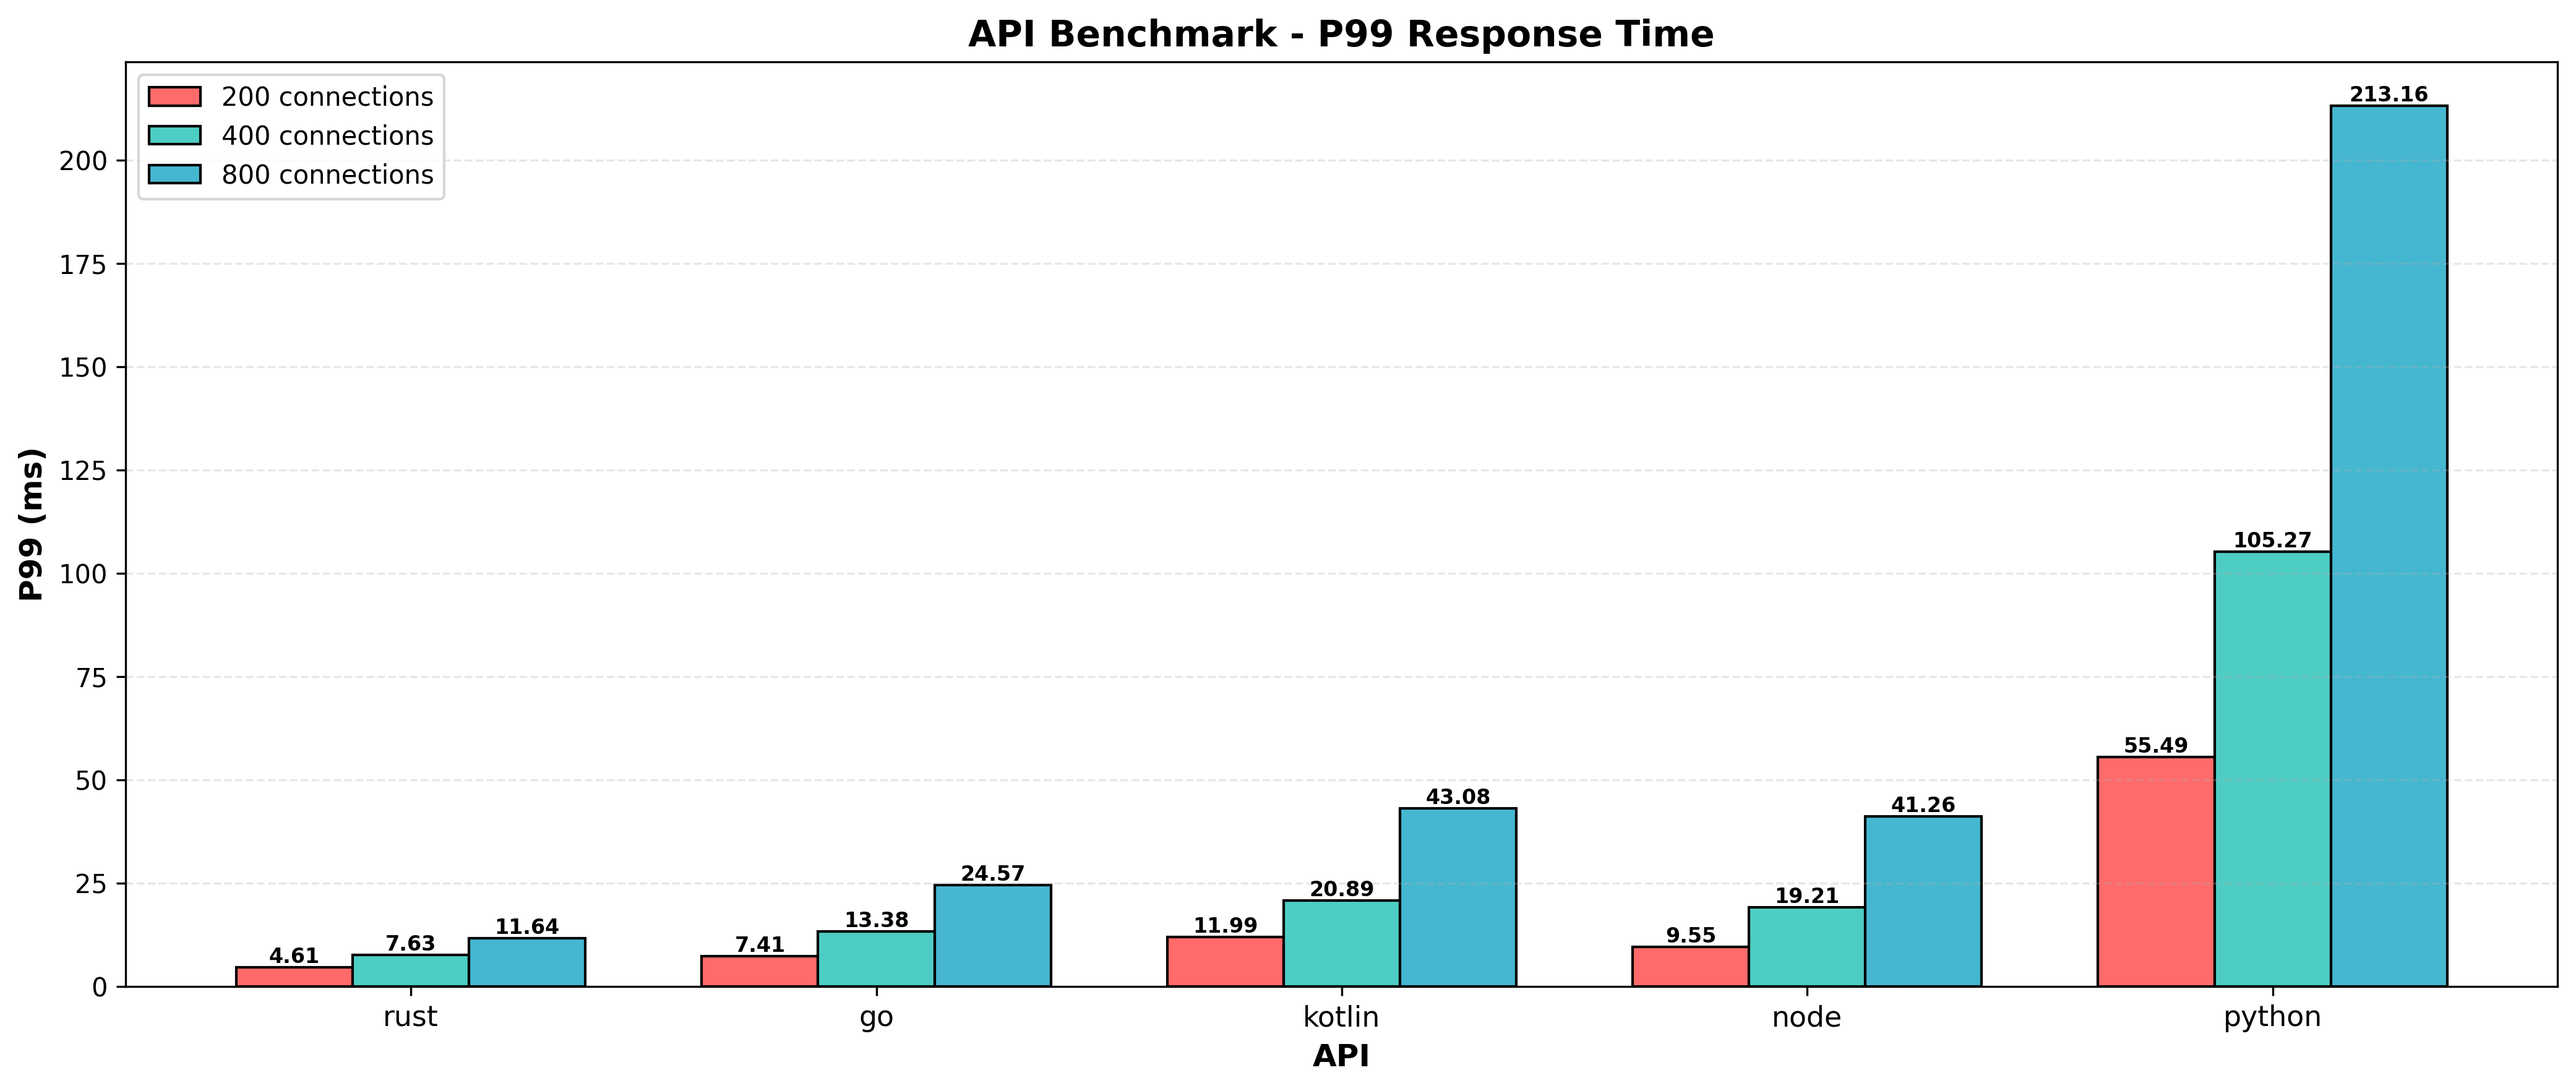
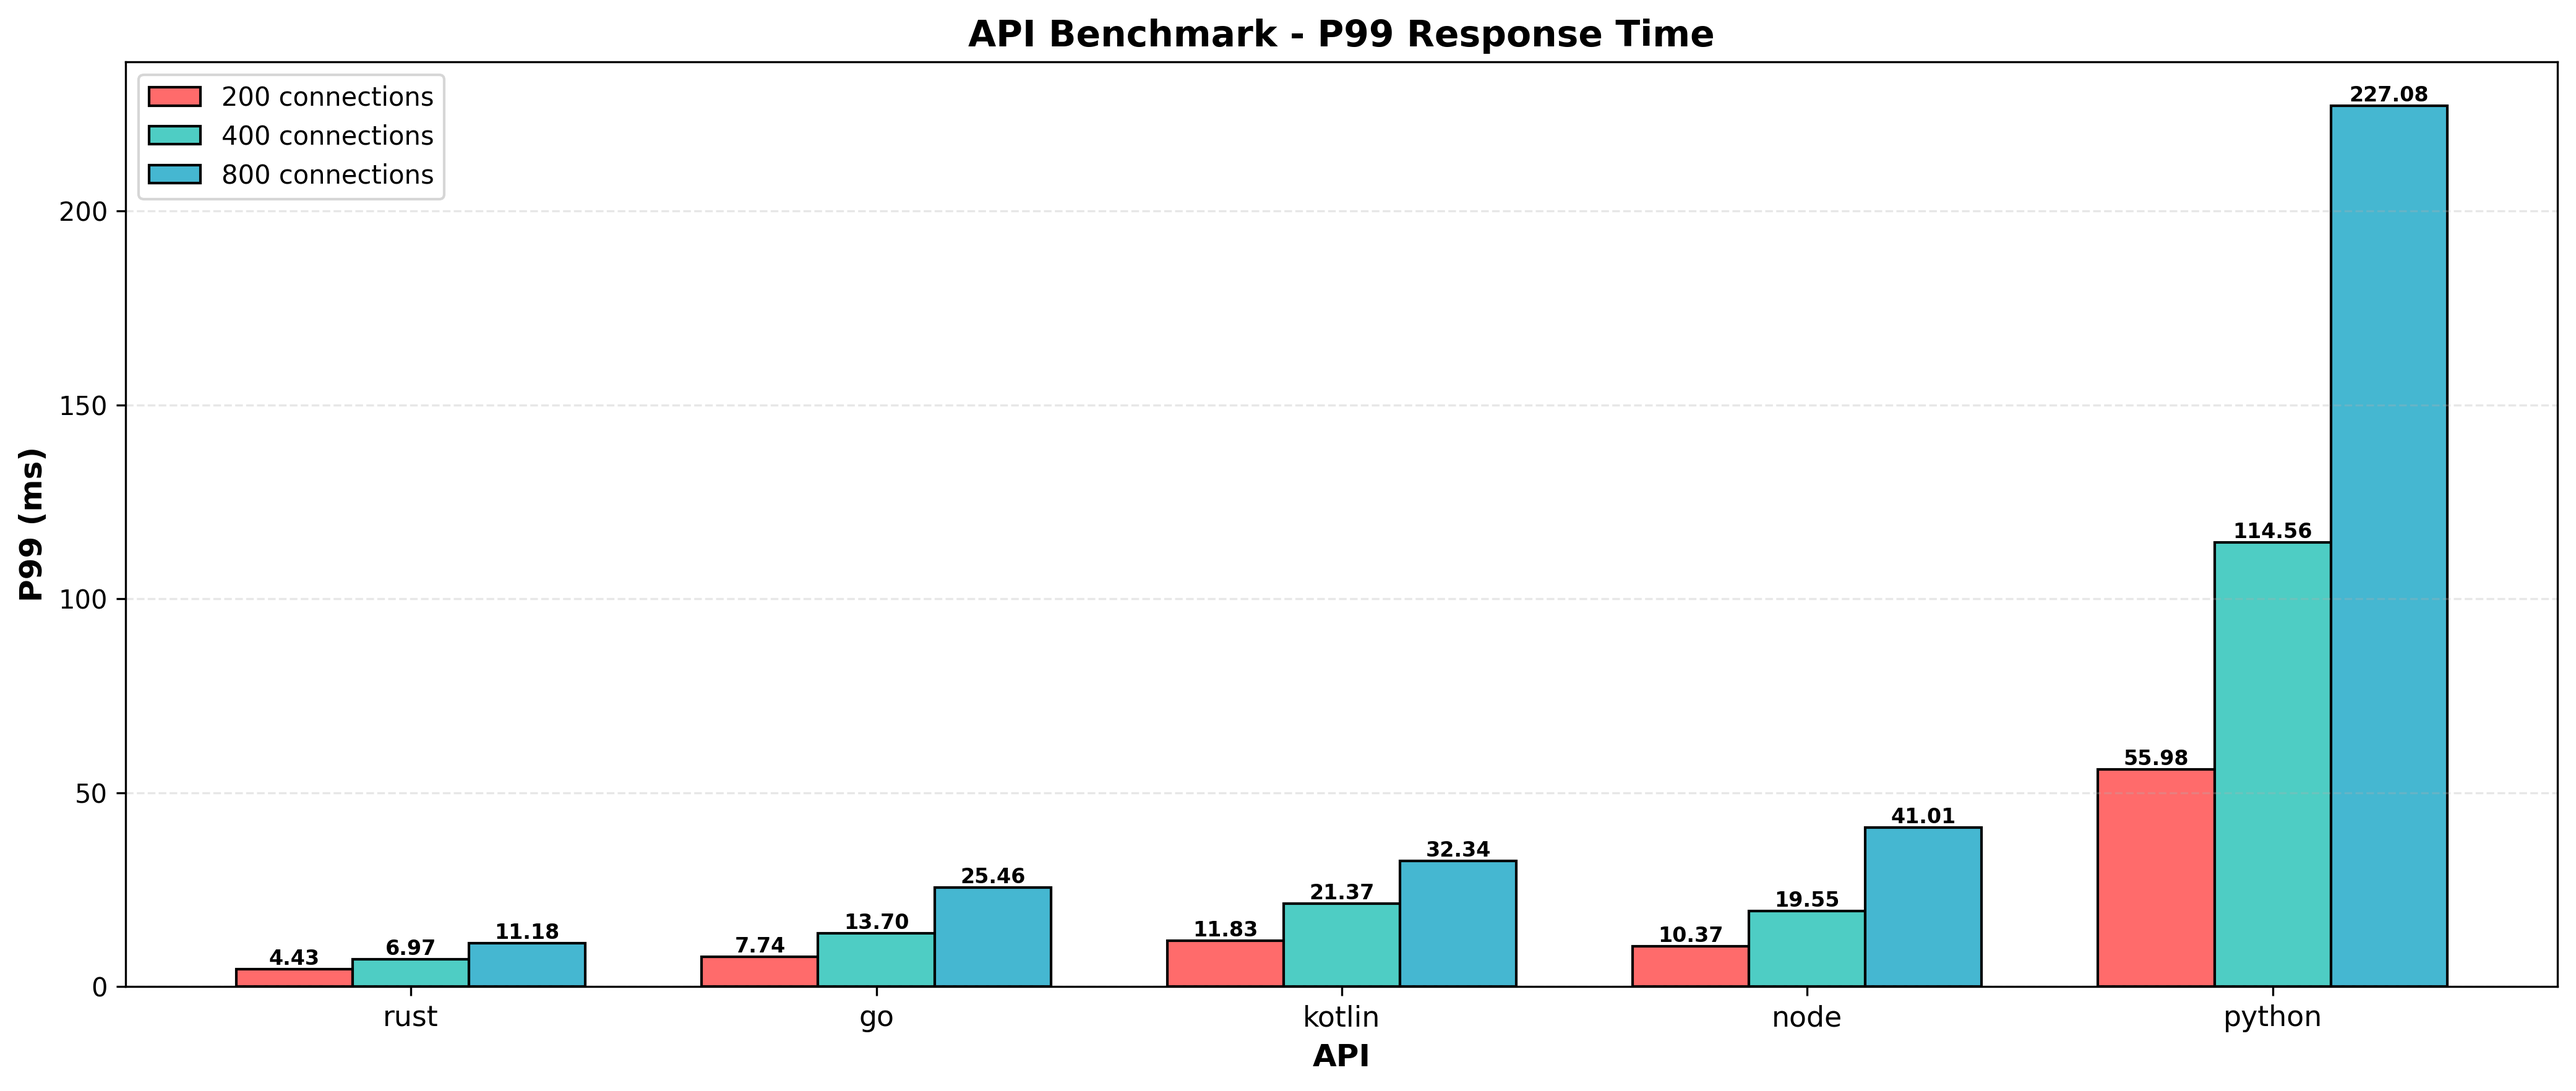
results from github actions autocommit

diff --git a/results/raw.md b/results/raw.md
@@ -1,6 +1,6 @@
 # Results
 ## Timestamp
-Fri Jan 2 11:55:20 UTC 2026
+Sat Jan 3 11:32:43 UTC 2026
 ## Hardware Info
 | CPU Model | Num CPUs | Memory |
 | --------- | -------- | ------ |
@@ -9,18 +9,18 @@ Fri Jan 2 11:55:20 UTC 2026
 ## Benchmarks of 1 Million Requests
 | Test Name | HTTP Conns | Success Rate | Test Seconds | Requests per Second | P50 Millis | P99 Millis | P99.9 Millis | API Memory MB | API CPU Time | API Threads |
 | --------- | ---------- | ------------ | ------------ | ------------------- | ---------- | ---------- | ------------ | ------------- | ------------ | ----------- |
-| rust | 200 | 100.0% | 9.0 | 110883.5 | 1.6541 | 4.6142 | 6.0271 | 8.3 | 00:00:17 | 5 |
-| rust | 400 | 100.0% | 8.7 | 114692.6 | 3.2401 | 7.6260 | 10.9926 | 13.1 | 00:00:17 | 5 |
-| rust | 800 | 100.0% | 8.7 | 114868.2 | 6.8402 | 11.6438 | 17.1886 | 22.1 | 00:00:17 | 5 |
-| go | 200 | 100.0% | 11.8 | 84212.1 | 1.8558 | 7.4109 | 10.0083 | 17.5 | 00:00:28 | 10 |
-| go | 400 | 100.0% | 11.4 | 87455.0 | 3.8700 | 13.3778 | 18.2549 | 24.4 | 00:00:27 | 11 |
-| go | 800 | 100.0% | 11.4 | 87667.6 | 8.1938 | 24.5681 | 36.6263 | 37.9 | 00:00:27 | 11 |
-| kotlin | 200 | 100.0% | 14.2 | 70136.2 | 1.9814 | 11.9942 | 34.2025 | 502.0 | 00:00:39 | 30 |
-| kotlin | 400 | 100.0% | 14.2 | 70100.8 | 4.6498 | 20.8856 | 44.5764 | 519.7 | 00:00:39 | 30 |
-| kotlin | 800 | 100.0% | 15.9 | 62916.1 | 10.8575 | 43.0830 | 117.5849 | 535.2 | 00:00:45 | 31 |
-| node | 200 | 100.0% | 34.9 | 28636.6 | 5.9121 | 9.5541 | 10.8655 | 103.7 | 00:00:35 | 7 |
-| node | 400 | 100.0% | 35.9 | 27813.8 | 12.4070 | 19.2101 | 26.4133 | 140.0 | 00:00:36 | 7 |
-| node | 800 | 100.0% | 35.7 | 28022.5 | 25.1876 | 41.2560 | 48.1236 | 148.0 | 00:00:36 | 7 |
-| python | 200 | 100.0% | 241.2 | 6677.9 | 47.4505 | 55.4909 | 57.6673 | 34.4 | 00:04:01 | 1 |
-| python | 400 | 100.0% | 232.4 | 7532.5 | 91.8734 | 105.2665 | 108.5509 | 37.7 | 00:03:52 | 1 |
-| python | 800 | 100.0% | 234.4 | 7766.7 | 185.6283 | 213.1642 | 224.0671 | 42.7 | 00:03:54 | 1 |
+| rust | 200 | 100.0% | 8.7 | 113763.8 | 1.6352 | 4.4287 | 5.9509 | 8.5 | 00:00:17 | 5 |
+| rust | 400 | 100.0% | 8.6 | 115849.0 | 3.3309 | 6.9695 | 9.2953 | 13.1 | 00:00:17 | 5 |
+| rust | 800 | 100.0% | 8.8 | 113116.8 | 6.9246 | 11.1844 | 17.1109 | 22.2 | 00:00:17 | 5 |
+| go | 200 | 100.0% | 11.9 | 83414.6 | 1.8613 | 7.7385 | 10.7291 | 17.7 | 00:00:28 | 11 |
+| go | 400 | 100.0% | 11.5 | 86670.4 | 3.9200 | 13.7039 | 19.7858 | 23.5 | 00:00:27 | 10 |
+| go | 800 | 100.0% | 11.5 | 86779.7 | 8.2617 | 25.4644 | 37.1060 | 37.5 | 00:00:27 | 11 |
+| kotlin | 200 | 100.0% | 13.8 | 72036.8 | 1.9398 | 11.8321 | 31.8289 | 501.6 | 00:00:37 | 30 |
+| kotlin | 400 | 100.0% | 14.8 | 67198.2 | 4.9466 | 21.3651 | 58.7211 | 528.6 | 00:00:41 | 30 |
+| kotlin | 800 | 100.0% | 14.7 | 68192.9 | 9.1409 | 32.3370 | 60.6677 | 612.7 | 00:00:40 | 30 |
+| node | 200 | 100.0% | 34.7 | 28735.1 | 5.9874 | 10.3741 | 12.5355 | 107.1 | 00:00:35 | 7 |
+| node | 400 | 100.0% | 36.9 | 27098.4 | 12.7218 | 19.5459 | 23.5118 | 143.5 | 00:00:37 | 7 |
+| node | 800 | 100.0% | 36.4 | 27423.1 | 25.0951 | 41.0091 | 47.6903 | 149.3 | 00:00:36 | 7 |
+| python | 200 | 100.0% | 239.5 | 6533.2 | 46.8987 | 55.9828 | 61.5745 | 35.4 | 00:03:59 | 1 |
+| python | 400 | 100.0% | 240.3 | 7014.0 | 94.9601 | 114.5551 | 124.9848 | 37.8 | 00:04:00 | 1 |
+| python | 800 | 100.0% | 239.3 | 7250.9 | 188.7521 | 227.0762 | 254.7286 | 42.7 | 00:03:59 | 1 |

diff --git a/results/latest.md b/results/latest.md
@@ -1,6 +1,6 @@
 # Latest Results
 
-Timestamp: `Fri Jan 2 11:55:20 UTC 2026`
+Timestamp: `Sat Jan 3 11:32:43 UTC 2026`
 
 ## Requests Per Second
 ![Requests Per Second](rps.png)
